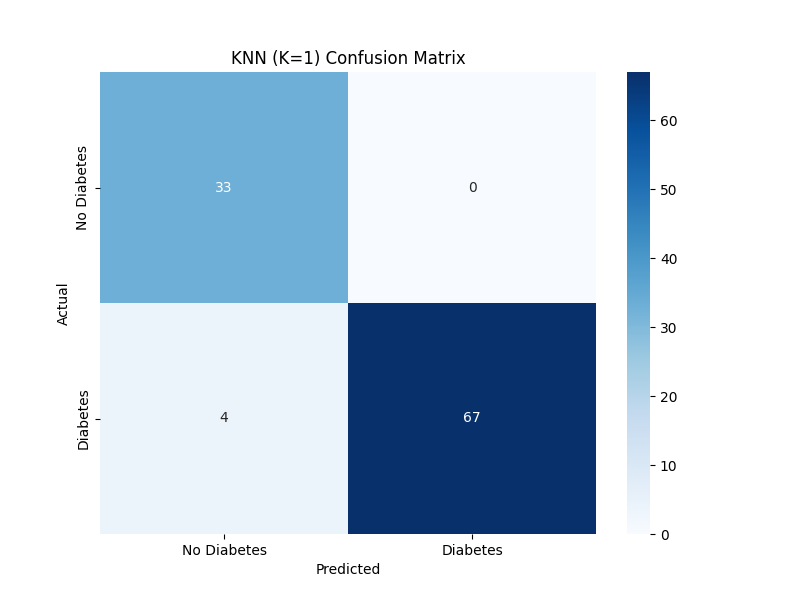
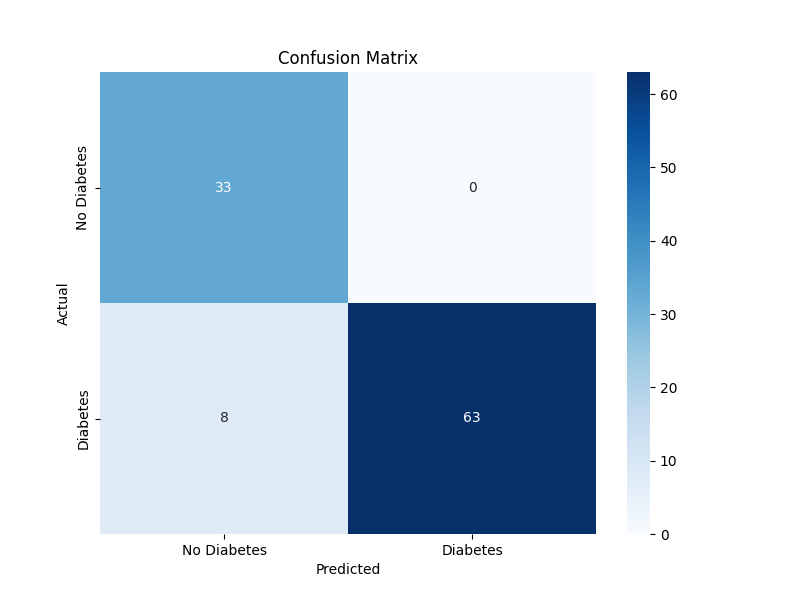
eval : knn

diff --git a/evals/models/knn.py b/evals/models/knn.py
@@ -3,79 +3,61 @@ import numpy as np
 import matplotlib.pyplot as plt
 import seaborn as sns
 from data_util import process_data
-from sklearn.model_selection import train_test_split
+from sklearn.model_selection import train_test_split, cross_val_score
 from sklearn.neighbors import KNeighborsClassifier
+# from sklearn.metrics import classification_report
 from sklearn.metrics import accuracy_score, classification_report, confusion_matrix
-from sklearn.preprocessing import StandardScaler
-from sklearn.inspection import permutation_importance
+
+# Need to run this in the evals\models folder with the virtual env
 
 # Load and process the data
 df = pd.read_csv('../dataset/andrew_diabetes.csv', sep=';')
 df = process_data(df)
+
+print(df.head())
+
 X = df.drop('class', axis=1)
 y = df['class']
 
-# Important: KNN may benefit from feature scaling
-scaler = StandardScaler()
-X_scaled = scaler.fit_transform(X)
+# Split dataset (80% train, 20% test)
+X_train, X_test, y_train, y_test = train_test_split(X, y, test_size=0.2, random_state=42)
 
-# Split the data into training and testing sets
-X_train, X_test, y_train, y_test = train_test_split(
-    X_scaled, y, test_size=0.2, random_state=42
-)
+# Initialize the KNN classifier with K=1 and Euclidean distance (default)
+knn = KNeighborsClassifier(n_neighbors=1, metric='euclidean')
 
-# Train the KNN model with Weka equivalent parameters:
-# - K = 1 (n_neighbors=1)
-# - Search algorithm: LinearNNSearch with Euclidean distance (using algorithm='brute', metric='euclidean')
-knn_model = KNeighborsClassifier(n_neighbors=1, algorithm='brute', metric='euclidean')
-knn_model.fit(X_train, y_train)
+# Train the classifier
+knn.fit(X_train, y_train)
 
 # Make predictions on the test set
-y_pred = knn_model.predict(X_test)
+y_pred = knn.predict(X_test)
+
+# # Evaluate performance
+# print("Classification Report:")
+# print(classification_report(y_test, y_pred))
+
+# # 10-fold cross-validation (using accuracy as scoring metric)
+# cv_scores = cross_val_score(knn, X, y, cv=10, scoring='accuracy')
+# print(f"Cross-validation accuracy: {cv_scores.mean():.4f} ± {cv_scores.std():.4f}")
 
 # Evaluate the model
 accuracy = accuracy_score(y_test, y_pred)
 print(f"Accuracy: {accuracy:.2f}")
+
 print(classification_report(y_test, y_pred, zero_division=1))
 
-# Check class distribution in predictions and test set
+# Check class distribution in predictions
 print(f"\nClass distribution in predictions: {np.bincount(y_pred)}")
 print(f"Class distribution in test set: {np.bincount(y_test)}")
 
-# Get prediction probabilities for a deeper look (if available)
-if hasattr(knn_model, "predict_proba"):
-    y_prob = knn_model.predict_proba(X_test)
-    print(f"\nSample of class probabilities (first 5):")
-    for i in range(min(5, len(y_test))):
-        print(f"Example {i+1}: Class 0 prob: {y_prob[i][0]:.4f}, "
-              f"Class 1 prob: {y_prob[i][1]:.4f}, True class: {y_test.iloc[i]}")
-
-# Plot confusion matrix
+# Optional: Plot confusion matrix
+from sklearn.metrics import confusion_matrix
 cm = confusion_matrix(y_test, y_pred)
 plt.figure(figsize=(8, 6))
-sns.heatmap(cm, annot=True, fmt='d', cmap='Blues',
+sns.heatmap(cm, annot=True, fmt='d', cmap='Blues', 
             xticklabels=['No Diabetes', 'Diabetes'],
             yticklabels=['No Diabetes', 'Diabetes'])
 plt.xlabel('Predicted')
 plt.ylabel('Actual')
-plt.title('KNN (K=1) Confusion Matrix')
-plt.savefig('knn_confusion_matrix.png')
-plt.close()
-
-# Compute permutation importance to assess feature importance
-result = permutation_importance(knn_model, X_test, y_test, n_repeats=10, random_state=42, n_jobs=-1)
-importance = pd.DataFrame({
-    'Feature': X.columns,
-    'Importance': result.importances_mean
-}).sort_values('Importance', ascending=False)
-
-print("\nFeature importance (via permutation importance):")
-print(importance)
-
-# Plot feature importance
-plt.figure(figsize=(10, 6))
-sns.barplot(x='Importance', y='Feature', data=importance)
-plt.title('KNN Feature Importance')
-plt.tight_layout()
-plt.savefig('knn_feature_importance.png')
+plt.title('Confusion Matrix')
+plt.savefig('KNN_confusion_matrix.png')
 plt.close()
